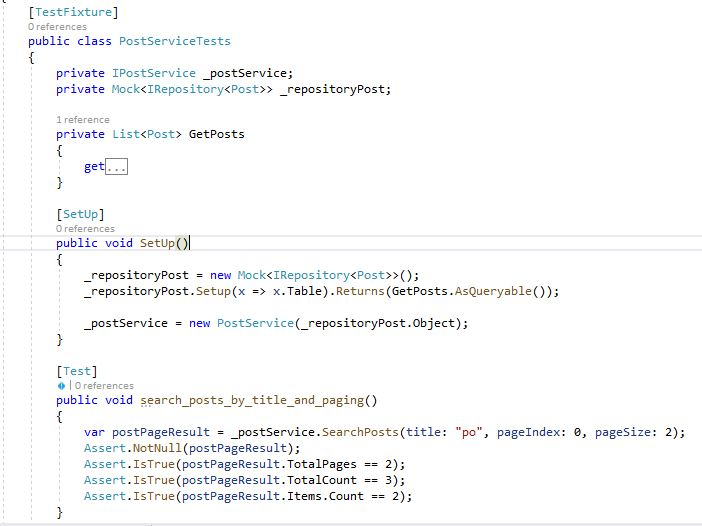
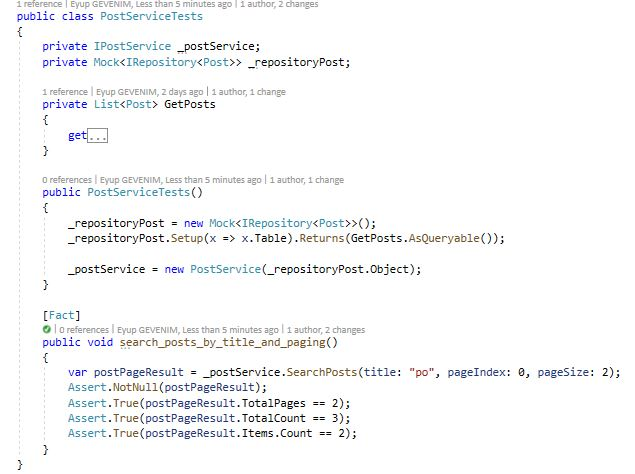
xunit tests

Changed region(s): [[0.0299, 0.0, 0.8079, 0.6498], [0.0598, 0.6203, 0.9874, 0.9747], [0.0299, 0.9451, 0.0898, 1.0]]

diff --git a/README.md b/README.md
@@ -2,7 +2,7 @@
 ============================
 
 .Net Core 3.0 Web Api design versioning, Jwt bearer authentication, swagger documentation, serilog logger,
- EF Core Repository pattern, Db Migration, NUnit Tests, dependency injection and project layers 
+ EF Core Repository pattern, Db Migration, xUnit Tests, dependency injection and project layers 
  
 
  Project layers
@@ -77,12 +77,16 @@ Dependency injection
 <img src="./screenshot/DI-DbContext-coniguration.JPG" max-height="400" alt="DI" />
 
 
-NUnit Tests
+xUnit Tests
 -----------
-
-<img src="./screenshot/post-service-test.JPG" max-height="400" alt="NUnit Tests" />
+Service test
+<br />
+<img src="./screenshot/post-service-test.JPG" max-height="400" alt="xUnit service Tests" />
+Integration test
+<br />
+<img src="./screenshot/post-integration-test.JPG" max-height="400" alt="xUnit integration Tests" />
 
 
 Serilog Logger
 -----------
-<img src="./screenshot/serilog-configurion.JPG" max-height="400" alt="NUnit Tests" />
+<img src="./screenshot/serilog-configurion.JPG" max-height="400" alt="serilog" />
